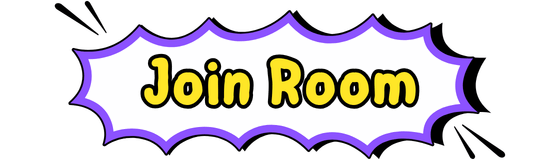
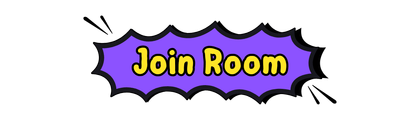
Finally fixed the Main Screen and Lobby Screen. The game is now fully playable. I may update UI a bit more later. Enjoy!

diff --git a/src/App.jsx b/src/App.jsx
@@ -256,13 +256,16 @@ export default function App() {
   if (loading) {
     return (
       <div className="min-h-screen comic-bg flex items-center justify-center p-6">
-        <div className="comic-panel p-4 rounded-3xl max-w-lg w-full flex flex-col items-center comic-glow-emerald overflow-hidden shadow-2xl">
+        <div 
+          className="comic-panel p-6 rounded-3xl flex flex-col items-center shadow-2xl box-border"
+          style={{ width: '560px', maxWidth: '100%' }}
+        >
           <img 
             src={`${import.meta.env.BASE_URL}loading-screen.gif`} 
             alt="Loading Judgy..." 
             className="w-full h-auto rounded-2xl object-cover border-4 border-black shadow-[4px_4px_0px_0px_rgba(0,0,0,1)]"
           />
-          <p className="text-emerald-400 font-black tracking-widest mt-4 text-xl animate-pulse">
+          <p className="text-emerald-400 font-black tracking-widest mt-4 text-lg animate-pulse">
             LOADING GAME...
           </p>
         </div>
@@ -270,52 +273,58 @@ export default function App() {
     );
   }
 
-  // --- START / LOGIN SCREEN (STRICTLY CENTERED & CONSTRAINED) ---
+  // --- START / LOGIN SCREEN ---
   if (!currentRoom || !roomData) {
     return (
       <div className="min-h-screen w-full comic-bg text-white flex items-center justify-center p-4">
-        <div className="w-full max-w-md mx-auto">
-          <div className="comic-panel p-8 rounded-3xl w-full flex flex-col gap-6 comic-glow-emerald">
-            <div className="text-center">
-              <h1 className="text-6xl font-black tracking-tight text-emerald-400 mb-2 drop-shadow-[2px_2px_0px_#000]">JUDGY</h1>
-              <p className="text-zinc-300 font-bold text-sm">The party game of questionable choices.</p>
+        <div 
+          className="comic-panel p-8 sm:p-10 rounded-3xl flex flex-col gap-5 shadow-2xl box-border overflow-hidden"
+          style={{ width: '560px', maxWidth: '100%' }}
+        >
+          <div className="text-center">
+            <h1 className="text-5xl sm:text-6xl font-black tracking-tight text-emerald-400 mb-1 drop-shadow-[2px_2px_0px_#000]">JUDGY</h1>
+            <p className="text-zinc-300 font-bold text-xs sm:text-sm">The party game of questionable choices.</p>
+          </div>
+
+          <div className="flex flex-col items-center gap-4 w-full min-w-0">
+            {/* Centered Name Input */}
+            <div className="w-2/3 min-w-[240px] flex flex-col items-center">
+              <label className="block text-xs font-black uppercase tracking-wider text-emerald-400 mb-1 w-full text-left">Your Name</label>
+              <input 
+                type="text" 
+                placeholder="e.g. Principal Smith" 
+                value={playerName}
+                onChange={(e) => setPlayerName(e.target.value)}
+                className="w-full max-w-full box-border bg-zinc-900 border-4 border-black rounded-xl px-3.5 py-2.5 text-white placeholder-zinc-500 focus:outline-none focus:border-emerald-400 focus:ring-2 focus:ring-emerald-400/30 font-bold text-sm shadow-[2px_2px_0px_0px_rgba(0,0,0,1)] transition-all"
+              />
             </div>
 
-            <div className="flex flex-col gap-5 w-full">
-              <div className="w-full">
-                <label className="block text-xs font-black uppercase tracking-wider text-emerald-400 mb-1.5">Your Name</label>
-                <input 
-                  type="text" 
-                  placeholder="e.g. Principal Smith" 
-                  value={playerName}
-                  onChange={(e) => setPlayerName(e.target.value)}
-                  className="w-full bg-zinc-950 border-4 border-black rounded-xl px-4 py-3.5 text-white placeholder-zinc-500 focus:outline-none focus:border-emerald-400 font-bold text-lg"
-                />
-              </div>
+            {/* Host Lobby Button */}
+            <div className="flex justify-center w-full pt-1">
+              <HostLobbyButton onClick={handleCreateRoom} />
+            </div>
 
-              {/* Host Lobby Button */}
-              <div className="flex justify-center w-full">
-                <HostLobbyButton onClick={handleCreateRoom} />
-              </div>
+            <div className="relative flex py-1 items-center w-full">
+              <div className="flex-grow border-t-4 border-zinc-800"></div>
+              <span className="flex-shrink mx-3 text-zinc-400 text-xs uppercase font-black tracking-wider">Or Join</span>
+              <div className="flex-grow border-t-4 border-zinc-800"></div>
+            </div>
 
-              <div className="relative flex py-1 items-center w-full">
-                <div className="flex-grow border-t-4 border-zinc-800"></div>
-                <span className="flex-shrink mx-4 text-zinc-400 text-xs uppercase font-black tracking-wider">Or Join</span>
-                <div className="flex-grow border-t-4 border-zinc-800"></div>
-              </div>
-
-              <div className="flex gap-3 w-full items-center">
+            {/* Room Code & Join Button */}
+            <div className="flex gap-4 w-full items-end justify-between min-w-0">
+              <div className="flex flex-col w-36 sm:w-40 shrink-0">
+                <label className="block text-xs font-black uppercase tracking-wider text-purple-400 mb-1 w-full text-left">Room Code</label>
                 <input 
                   type="text" 
                   placeholder="CODE" 
                   maxLength={4}
                   value={roomCode}
                   onChange={(e) => setRoomCode(e.target.value)}
-                  className="w-1/3 bg-zinc-950 border-4 border-black rounded-xl px-2 py-3.5 text-white uppercase text-center tracking-widest font-black text-lg focus:outline-none focus:border-purple-400"
+                  className="w-full box-border bg-zinc-900 border-4 border-black rounded-xl px-3 py-2.5 text-white uppercase text-center tracking-widest font-black text-sm focus:outline-none focus:border-purple-400 focus:ring-2 focus:ring-purple-400/30 shadow-[2px_2px_0px_rgba(0,0,0,1)] transition-all"
                 />
-                <div className="w-2/3 flex justify-center">
-                  <JoinRoomButton onClick={handleJoinRoom} />
-                </div>
+              </div>
+              <div className="flex justify-end shrink-0">
+                <JoinRoomButton onClick={handleJoinRoom} />
               </div>
             </div>
           </div>
@@ -330,40 +339,41 @@ export default function App() {
     const isHost = myPlayerEntry ? myPlayerEntry[1].isHost : false;
 
     return (
-      <div className="min-h-screen comic-bg text-white p-8 flex flex-col items-center justify-center">
-        <div className="max-w-xl w-full comic-panel p-6 rounded-3xl mb-6 flex justify-between items-center comic-glow-emerald">
+      <div className="min-h-screen comic-bg text-white p-6 flex flex-col items-center justify-center">
+        <div 
+          className="comic-panel p-5 rounded-3xl mb-5 flex justify-between items-center box-border mx-auto"
+          style={{ width: '560px', maxWidth: '100%' }}
+        >
           <div>
             <span className="text-xs text-emerald-400 uppercase tracking-widest font-black">Room Code</span>
-            <h2 className="text-5xl font-black tracking-widest text-white">{currentRoom}</h2>
+            <h2 className="text-4xl font-black tracking-widest text-white">{currentRoom}</h2>
           </div>
           <div className="text-right">
             <span className="text-xs text-zinc-400 uppercase tracking-widest font-black">Players Connected</span>
-            <p className="text-3xl font-black text-emerald-300">{Object.keys(roomData.players || {}).length}</p>
+            <p className="text-2xl font-black text-emerald-300">{Object.keys(roomData.players || {}).length}</p>
           </div>
         </div>
 
-        <div className="max-w-xl w-full comic-panel p-6 rounded-3xl mb-6 flex flex-col items-center">
-          <h3 className="text-sm font-black text-zinc-300 uppercase tracking-wider mb-4 w-full text-left">Players in Lobby:</h3>
-          <ul className="flex flex-col gap-2.5 mb-6 w-full">
+        <div 
+          className="comic-panel p-6 rounded-3xl mb-5 flex flex-col items-center box-border mx-auto overflow-hidden"
+          style={{ width: '560px', maxWidth: '100%' }}
+        >
+          <h3 className="text-xs font-black text-zinc-300 uppercase tracking-wider mb-3 w-full text-left">Players in Lobby:</h3>
+          <ul className="flex flex-col gap-2.5 mb-5 w-full items-center box-border">
             {Object.values(roomData.players || {}).map((p, idx) => (
-              <li key={idx} className="bg-zinc-900 px-4 py-3.5 rounded-2xl border-4 border-black flex items-center justify-between shadow-[3px_3px_0px_0px_rgba(0,0,0,1)]">
-                <span className="font-bold text-white text-base">{p.name} {p.isHost && '👑'}</span>
-                <span className="text-xs font-black text-emerald-400">Score: {p.score || 0}</span>
+              <li key={idx} className="bg-zinc-900 px-4 py-3 rounded-2xl border-4 border-black flex items-center justify-between shadow-[3px_3px_0px_0px_rgba(0,0,0,1)] w-full max-w-full box-border">
+                <span className="font-bold text-white text-sm truncate pr-2">{p.name} {p.isHost && '👑'}</span>
+                <span className="text-xs font-black text-emerald-400 shrink-0">Score: {p.score || 0}</span>
               </li>
             ))}
           </ul>
 
           {isHost ? (
-            <div className="flex justify-center w-full">
-              <button 
-                onClick={handleStartGame}
-                className="bg-emerald-400 hover:bg-emerald-300 text-black font-black py-3.5 px-10 rounded-2xl border-4 border-black shadow-[4px_4px_0px_0px_rgba(0,0,0,1)] text-xl transition-all active:translate-x-1 active:translate-y-1 active:shadow-none cursor-pointer"
-              >
-                START GAME 🚀
-              </button>
+            <div className="flex justify-center w-full pt-2">
+              <StartGameButton onClick={handleStartGame} />
             </div>
           ) : (
-            <div className="text-center text-amber-300 font-bold bg-amber-950/80 border-4 border-amber-600 p-4 rounded-2xl shadow-[3px_3px_0px_0px_rgba(0,0,0,1)] w-full">
+            <div className="text-center text-amber-300 font-bold bg-amber-950/80 border-4 border-amber-600 p-3.5 rounded-2xl shadow-[3px_3px_0px_0px_rgba(0,0,0,1)] w-full box-border text-sm">
               Waiting for the Host to start the game...
             </div>
           )}
@@ -375,20 +385,23 @@ export default function App() {
   // --- WIN SCREEN ---
   if (roomData.status === 'game-over') {
     return (
-      <div className="min-h-screen comic-bg text-white p-8 flex flex-col items-center justify-center text-center">
-        <div className="comic-panel p-10 rounded-3xl max-w-xl w-full comic-glow-gold flex flex-col items-center">
-          <h1 className="text-4xl sm:text-5xl font-black text-amber-400 mb-4 drop-shadow-[2px_2px_0px_#000]">🏆 WE HAVE A WINNER! 🏆</h1>
-          <p className="text-2xl sm:text-3xl font-black text-white mb-6">{roomData.winner} reached {WINNING_SCORE} points!</p>
+      <div className="min-h-screen comic-bg text-white p-6 flex flex-col items-center justify-center text-center">
+        <div 
+          className="comic-panel p-8 rounded-3xl flex flex-col items-center box-border mx-auto"
+          style={{ width: '560px', maxWidth: '100%' }}
+        >
+          <h1 className="text-3xl sm:text-4xl font-black text-amber-400 mb-3 drop-shadow-[2px_2px_0px_#000]">🏆 WE HAVE A WINNER! 🏆</h1>
+          <p className="text-xl sm:text-2xl font-black text-white mb-5">{roomData.winner} reached {WINNING_SCORE} points!</p>
           
-          <div className="mb-8 bg-zinc-950 p-4 rounded-2xl border-4 border-black w-full">
-            <h3 className="text-xs font-black uppercase tracking-wider text-zinc-400 mb-3 text-left">Final Standings</h3>
+          <div className="mb-6 bg-zinc-950 p-4 rounded-2xl border-4 border-black w-full">
+            <h3 className="text-xs font-black uppercase tracking-wider text-zinc-400 mb-2.5 text-left">Final Standings</h3>
             <div className="flex flex-col gap-2">
               {Object.values(roomData.players || {})
                 .sort((a, b) => (b.score || 0) - (a.score || 0))
                 .map((p, idx) => (
-                  <div key={idx} className="flex justify-between items-center px-4 py-2.5 bg-zinc-900 rounded-xl border-2 border-black">
-                    <span className="font-bold text-white">{p.name}</span>
-                    <span className="text-emerald-400 font-black">{p.score || 0} pts</span>
+                  <div key={idx} className="flex justify-between items-center px-3.5 py-2 bg-zinc-900 rounded-xl border-2 border-black">
+                    <span className="font-bold text-white text-sm">{p.name}</span>
+                    <span className="text-emerald-400 font-black text-sm">{p.score || 0} pts</span>
                   </div>
                 ))}
             </div>
@@ -403,7 +416,7 @@ export default function App() {
               });
               await update(ref(db, `rooms/${currentRoom}/players`), resetPlayers);
             }}
-            className="bg-amber-400 hover:bg-amber-300 text-black font-black py-3 px-8 rounded-2xl border-4 border-black shadow-[4px_4px_0px_0px_rgba(0,0,0,1)] text-lg transition-all active:translate-x-1 active:translate-y-1 active:shadow-none cursor-pointer"
+            className="bg-amber-400 hover:bg-amber-300 text-black font-black py-2.5 px-6 rounded-2xl border-4 border-black shadow-[4px_4px_0px_0px_rgba(0,0,0,1)] text-base transition-all active:translate-x-1 active:translate-y-1 active:shadow-none cursor-pointer"
           >
             PLAY AGAIN
           </button>
@@ -425,8 +438,8 @@ export default function App() {
   return (
     <div className="min-h-screen comic-bg text-white p-6 flex flex-col items-center">
       {/* Header & Scoreboard */}
-      <div className={`w-full max-w-4xl flex justify-between items-center mb-8 comic-panel px-6 py-4 rounded-2xl ${phaseGlowClass}`}>
-        <span className="text-emerald-400 font-black text-sm tracking-wider">ROOM: {currentRoom}</span>
+      <div className={`w-full max-w-4xl flex justify-between items-center mb-6 comic-panel px-5 py-3.5 rounded-2xl ${phaseGlowClass}`}>
+        <span className="text-emerald-400 font-black text-xs tracking-wider">ROOM: {currentRoom}</span>
         <div className="flex gap-2 items-center flex-wrap justify-center">
           {Object.values(roomData.players || {}).map((p, idx) => (
             <span key={idx} className={`text-xs px-3 py-1 rounded-full border-2 border-black font-bold ${roomData.judge && roomData.players[roomData.judge]?.name === p.name ? 'bg-purple-900 text-purple-200' : 'bg-zinc-800 text-zinc-200'}`}>
@@ -438,7 +451,7 @@ export default function App() {
       </div>
 
       {/* Prompt Card */}
-      <div className="mb-8">
+      <div className="mb-6">
         {roomData.currentGreen && (
           <GreenCard 
             text={roomData.currentGreen.text} 
@@ -449,10 +462,10 @@ export default function App() {
       {/* JUDGING PHASE / SUBMISSIONS REVEAL */}
       {roomData.status === 'judging' ? (
         isCurrentJudge ? (
-          <div className="w-full max-w-4xl flex flex-col items-center mb-8">
-            <h3 className="text-2xl font-black text-purple-300 mb-2 drop-shadow tracking-wide">SELECT THE WINNER!</h3>
-            <p className="text-zinc-300 text-sm font-bold mb-6">All submissions are in. Click any card below to award the point:</p>
-            <div className="flex flex-wrap gap-8 justify-center">
+          <div className="w-full max-w-4xl flex flex-col items-center mb-6">
+            <h3 className="text-xl font-black text-purple-300 mb-2 drop-shadow tracking-wide">SELECT THE WINNER!</h3>
+            <p className="text-zinc-300 text-xs font-bold mb-5">All submissions are in. Click any card below to award the point:</p>
+            <div className="flex flex-wrap gap-6 justify-center">
               {Object.entries(roomData.submissions || {}).map(([playerKey, sub]) => (
                 <div 
                   key={playerKey} 
@@ -471,45 +484,54 @@ export default function App() {
             </div>
           </div>
         ) : (
-          <div className="text-center comic-panel p-8 rounded-3xl max-w-md w-full mb-8 comic-glow-purple">
-            <h3 className="text-2xl font-black text-purple-300 mb-2">JUDGING IN PROGRESS!</h3>
-            <p className="text-zinc-200 text-sm font-bold">All cards submitted anonymously. {roomData.players[roomData.judge]?.name} is reviewing them...</p>
+          <div 
+            className="comic-panel text-center p-6 rounded-3xl mb-6 comic-glow-purple box-border mx-auto"
+            style={{ width: '560px', maxWidth: '100%' }}
+          >
+            <h3 className="text-xl font-black text-purple-300 mb-2">JUDGING IN PROGRESS!</h3>
+            <p className="text-zinc-200 text-xs font-bold">All cards submitted anonymously. {roomData.players[roomData.judge]?.name} is reviewing them...</p>
           </div>
         )
       ) : isCurrentJudge ? (
         // --- JUDGE WAITING SCREEN ---
-        <div className="w-full max-w-4xl flex flex-col items-center mb-8">
-          <div className="text-center comic-panel p-6 rounded-3xl max-w-md w-full mb-6 comic-glow-purple">
-            <h3 className="text-xl font-black text-purple-300 mb-2">YOU ARE THE JUDGE! 👑</h3>
-            <p className="text-zinc-200 text-sm font-bold mb-3">Waiting for players to submit their cards...</p>
-            <div className="text-sm font-black text-amber-400 bg-purple-900 border-2 border-black px-4 py-1.5 rounded-full inline-block">
+        <div className="w-full max-w-4xl flex flex-col items-center mb-6">
+          <div 
+            className="comic-panel text-center p-5 rounded-3xl mb-5 comic-glow-purple box-border mx-auto"
+            style={{ width: '560px', maxWidth: '100%' }}
+          >
+            <h3 className="text-lg font-black text-purple-300 mb-1.5">YOU ARE THE JUDGE! 👑</h3>
+            <p className="text-zinc-200 text-xs font-bold mb-2.5">Waiting for players to submit their cards...</p>
+            <div className="text-xs font-black text-amber-400 bg-purple-900 border-2 border-black px-3.5 py-1 rounded-full inline-block">
               Submissions: {submissionsCount} / {totalPlayersCount - 1}
             </div>
           </div>
 
-          <h4 className="text-xs font-black text-zinc-400 uppercase tracking-widest mb-4">SUBMITTED CARDS (WAITING TO REVEAL)</h4>
-          <div className="flex flex-wrap justify-center gap-6">
+          <h4 className="text-xs font-black text-zinc-400 uppercase tracking-widest mb-3">SUBMITTED CARDS (WAITING TO REVEAL)</h4>
+          <div className="flex flex-wrap justify-center gap-5">
             {Array.from({ length: submissionsCount }).map((_, idx) => (
               <CardBack key={idx} />
             ))}
             {submissionsCount === 0 && (
-              <p className="text-zinc-400 italic text-sm font-semibold">No submissions yet...</p>
+              <p className="text-zinc-400 italic text-xs font-semibold">No submissions yet...</p>
             )}
           </div>
         </div>
       ) : hasSubmitted ? (
         // --- PLAYER WAITING SCREEN ---
-        <div className="w-full max-w-4xl flex flex-col items-center mb-8">
-          <div className="text-center comic-panel p-6 rounded-3xl max-w-md w-full mb-6 comic-glow-emerald">
-            <h3 className="text-xl font-black text-emerald-300 mb-2">COMBO SUBMITTED! ✅</h3>
-            <p className="text-zinc-200 text-sm font-bold">Waiting for other players and the judge...</p>
-            <div className="text-xs text-emerald-400 font-black mt-2">
+        <div className="w-full max-w-4xl flex flex-col items-center mb-6">
+          <div 
+            className="comic-panel text-center p-5 rounded-3xl mb-5 comic-glow-emerald box-border mx-auto"
+            style={{ width: '560px', maxWidth: '100%' }}
+          >
+            <h3 className="text-lg font-black text-emerald-300 mb-1.5">COMBO SUBMITTED! ✅</h3>
+            <p className="text-zinc-200 text-xs font-bold">Waiting for other players and the judge...</p>
+            <div className="text-xs text-emerald-400 font-black mt-1.5">
               Submissions: {submissionsCount} / {totalPlayersCount - 1}
             </div>
           </div>
 
-          <h4 className="text-xs font-black text-zinc-400 uppercase tracking-widest mb-4">TABLE STATUS</h4>
-          <div className="flex flex-wrap justify-center gap-6">
+          <h4 className="text-xs font-black text-zinc-400 uppercase tracking-widest mb-3">TABLE STATUS</h4>
+          <div className="flex flex-wrap justify-center gap-5">
             {Array.from({ length: submissionsCount }).map((_, idx) => (
               <CardBack key={idx} />
             ))}
@@ -517,11 +539,11 @@ export default function App() {
         </div>
       ) : (
         // --- PLAYER SELECTION HAND SCREEN ---
-        <div className="w-full max-w-4xl flex flex-col items-center mb-8">
-          <h3 className="text-lg font-black text-zinc-200 mb-4 tracking-wider uppercase drop-shadow">
+        <div className="w-full max-w-4xl flex flex-col items-center mb-6">
+          <h3 className="text-base font-black text-zinc-200 mb-3 tracking-wider uppercase drop-shadow">
             SELECT {requiredPick} CARD{requiredPick > 1 ? 'S' : ''} FROM YOUR HAND:
           </h3>
-          <div className="flex flex-wrap gap-6 justify-center">
+          <div className="flex flex-wrap gap-5 justify-center">
             {playerHand.map((card) => {
               const selectedIndex = selectedCards.findIndex(c => c.uniqueKey === card.uniqueKey);
               const isSelected = selectedIndex !== -1;
@@ -541,7 +563,7 @@ export default function App() {
           </div>
 
           {selectedCards.length === requiredPick && (
-            <div className="mt-8">
+            <div className="mt-6">
               <SubmitButton 
                 onClick={handleSubmitCard} 
                 label={requiredPick > 1 ? 'SUBMIT COMBO!' : 'SUBMIT CARD!'} 
@@ -565,7 +587,7 @@ function HostLobbyButton({ onClick }) {
       <img 
         src={`${import.meta.env.BASE_URL}host-lobby-button.png`} 
         alt="Host Lobby" 
-        className="w-56 sm:w-64 h-auto drop-shadow-[5px_5px_0px_rgba(0,0,0,1)] transition-all"
+        className="w-40 sm:w-48 h-auto drop-shadow-[4px_4px_0px_rgba(0,0,0,1)] transition-all"
       />
     </button>
   );
@@ -581,7 +603,24 @@ function JoinRoomButton({ onClick }) {
       <img 
         src={`${import.meta.env.BASE_URL}join-room-button.png`} 
         alt="Join Room" 
-        className="w-44 sm:w-48 h-auto drop-shadow-[5px_5px_0px_rgba(0,0,0,1)] transition-all"
+        className="w-32 sm:w-38 h-auto drop-shadow-[4px_4px_0px_rgba(0,0,0,1)] transition-all"
+      />
+    </button>
+  );
+}
+
+// --- CUSTOM START GAME BUTTON COMPONENT ---
+function StartGameButton({ onClick }) {
+  return (
+    <button
+      type="button"
+      onClick={onClick}
+      className="group relative border-none bg-transparent p-0 transition-transform duration-150 select-none hover:scale-105 active:scale-95 cursor-pointer inline-flex items-center justify-center"
+    >
+      <img 
+        src={`${import.meta.env.BASE_URL}start-game-button.png`} 
+        alt="Start Game" 
+        className="w-44 sm:w-52 h-auto drop-shadow-[5px_5px_0px_rgba(0,0,0,1)] transition-all"
       />
     </button>
   );
@@ -603,7 +642,7 @@ function SubmitButton({ onClick, disabled, label = "SUBMIT CARD!" }) {
       <img 
         src={`${import.meta.env.BASE_URL}submit-card-button.png`} 
         alt={label} 
-        className="w-48 sm:w-60 h-auto drop-shadow-[6px_6px_0px_rgba(0,0,0,1)] transition-all"
+        className="w-44 sm:w-52 h-auto drop-shadow-[5px_5px_0px_rgba(0,0,0,1)] transition-all"
       />
     </button>
   );
